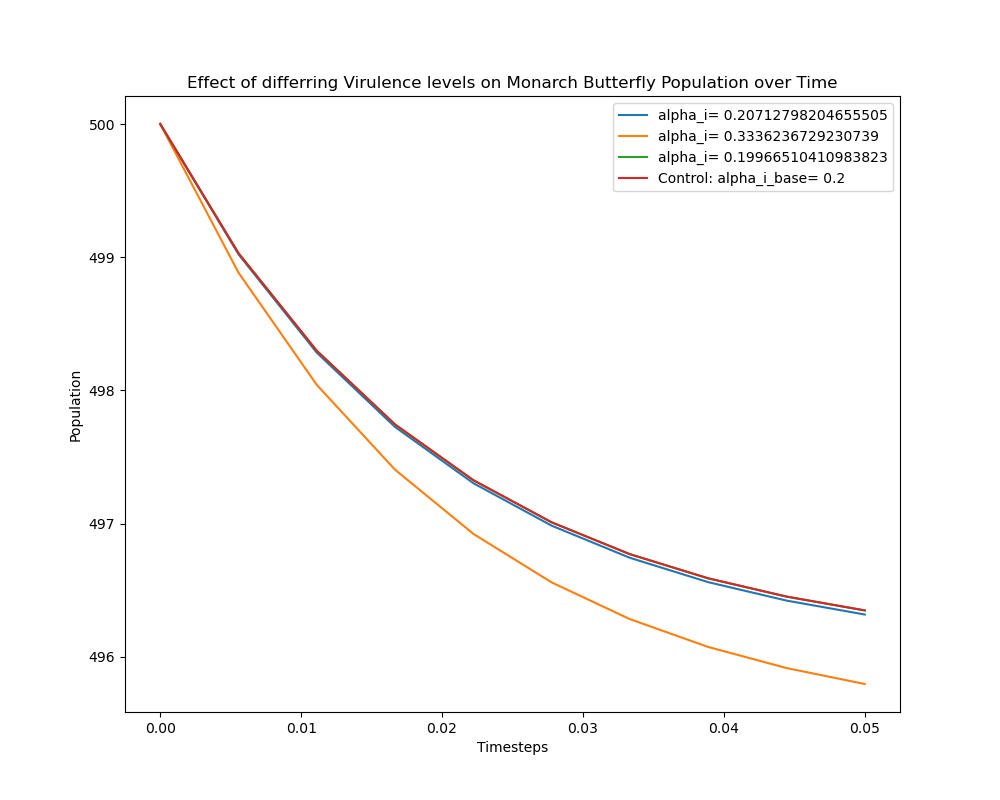
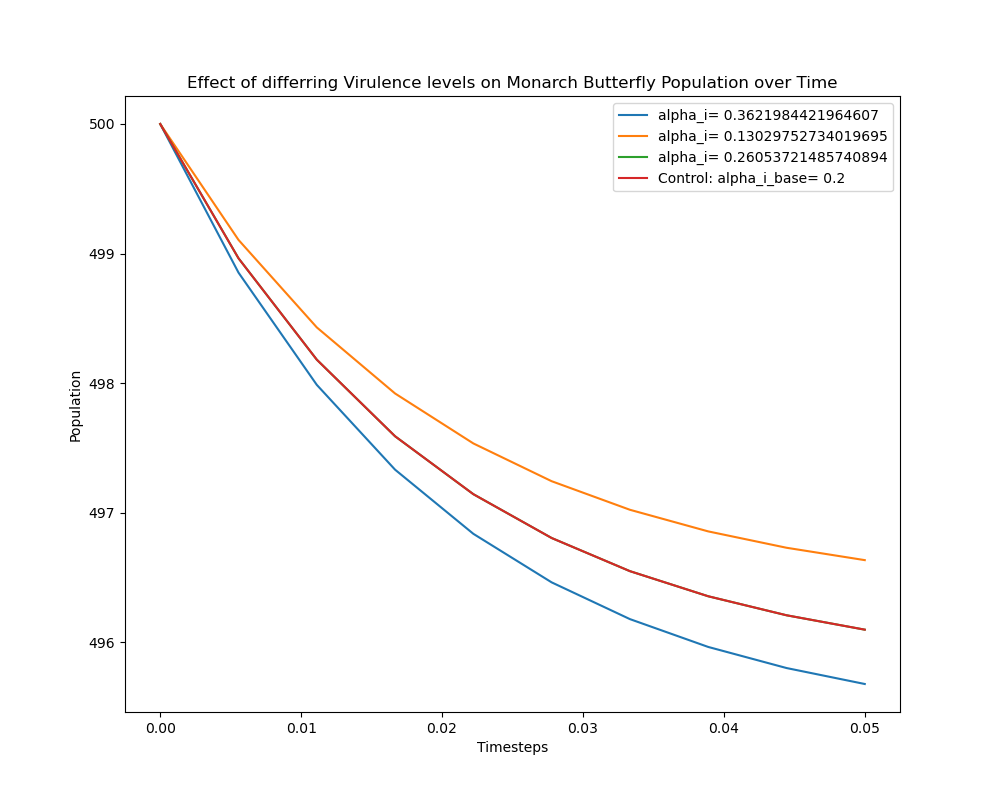
minor bugfix + graph update

diff --git a/oeSolverUsingZombieModelFinal.py b/oeSolverUsingZombieModelFinal.py
@@ -76,7 +76,7 @@ plt.figure()
 plt.plot(t, S, label='alpha_i= '+str(alpha_i))
 plt.plot(t, S1, label='alpha_i= '+str(alpha_i1))
 plt.plot(t, S2, label='alpha_i= '+str(alpha_i2))
-plt.plot(t, S2, label='Control: alpha_i_base= '+str(alpha_i_base))
+plt.plot(t, SC, label='Control: alpha_i_base= '+str(alpha_i_base))
 plt.xlabel('Timesteps')
 plt.ylabel('Population')
 plt.title('Effect of differring Virulence levels on Monarch Butterfly Population over Time')
